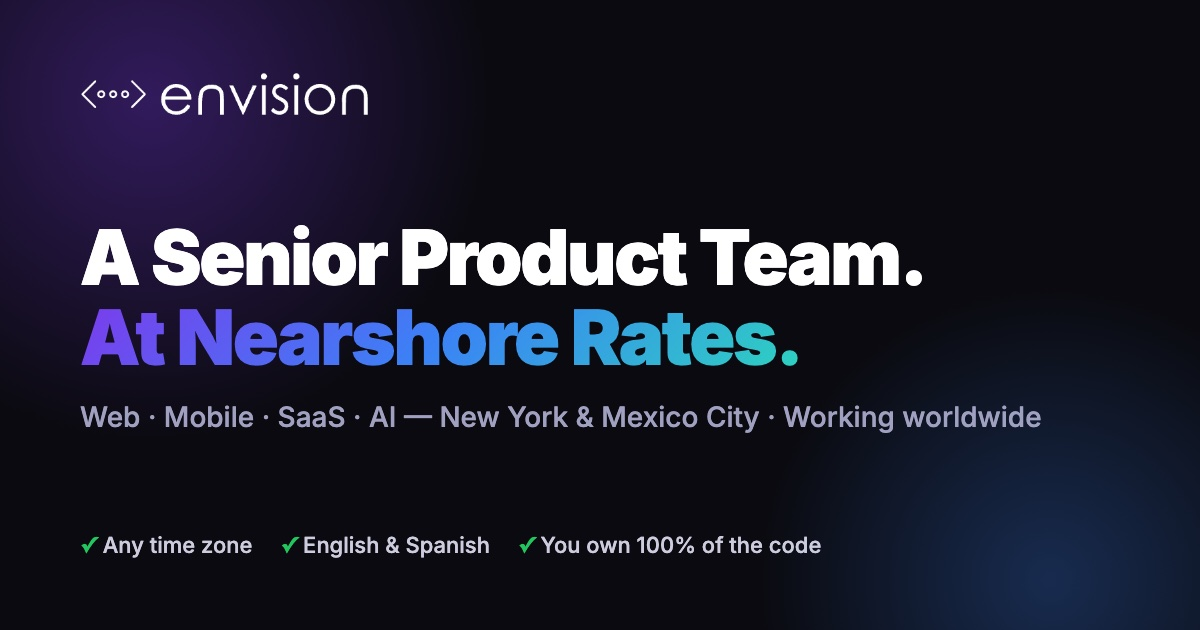
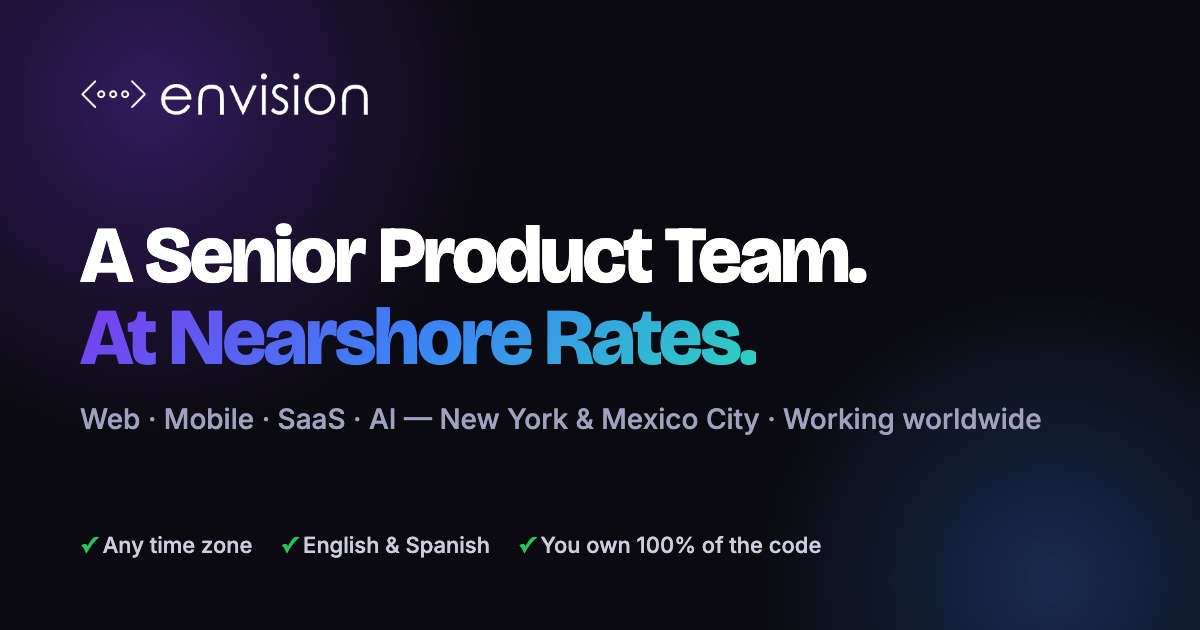
Use Bricolage Grotesque for headlines, keep Inter for body text
Also drops unused Inter weights (300, 900) and updates the social preview image to match.

Changed region(s): [[0.0617, 0.4825, 0.6783, 0.6032], [0.0617, 0.3619, 0.7708, 0.4524], [0.0617, 0.6333, 0.8633, 0.6937]]

diff --git a/es/index.html b/es/index.html
@@ -51,7 +51,7 @@
 
 <link rel="preconnect" href="https://fonts.googleapis.com">
 <link rel="preconnect" href="https://fonts.gstatic.com" crossorigin>
-<link href="https://fonts.googleapis.com/css2?family=Inter:wght@300;400;500;600;700;800;900&display=swap" rel="stylesheet">
+<link href="https://fonts.googleapis.com/css2?family=Bricolage+Grotesque:opsz,wght@12..96,700;12..96,800&family=Inter:wght@400;500;600;700;800&display=swap" rel="stylesheet">
 <style>
 /* ── VARIABLES ─────────────────────────────────────────────────────────── */
 :root {
@@ -78,6 +78,7 @@
   --radius:    14px;
   --radius-sm: 8px;
   --font:      'Inter', sans-serif;
+  --font-display: 'Bricolage Grotesque', 'Inter', sans-serif;
 }
 
 /* ── RESET ─────────────────────────────────────────────────────────────── */
@@ -109,6 +110,12 @@ body::before {
   opacity: 0.025;
   pointer-events: none;
   z-index: 9999;
+}
+
+/* Headlines use Bricolage Grotesque; body copy stays in Inter */
+.hero-title, .section-title, .stat-num, .case-title, .project-name,
+.service-title, .step-title, .team-name, .project-shot.placeholder span {
+  font-family: var(--font-display);
 }
 
 /* ── UTILITIES ──────────────────────────────────────────────────────────── */
@@ -300,7 +307,7 @@ nav.scrolled {
 }
 .hero-title {
   font-size: clamp(2.6rem, 6vw, 4.5rem);
-  font-weight: 900; line-height: 1.1;
+  font-weight: 800; line-height: 1.05;
   letter-spacing: -0.03em;
   margin-bottom: 24px;
 }
@@ -363,7 +370,7 @@ nav.scrolled {
   padding: 28px 32px; text-align: center;
 }
 .stat-num {
-  font-size: 2.25rem; font-weight: 900;
+  font-size: 2.25rem; font-weight: 800;
   letter-spacing: -0.03em; line-height: 1;
   background: linear-gradient(135deg, var(--grad1), var(--grad2));
   -webkit-background-clip: text; -webkit-text-fill-color: transparent;
@@ -800,7 +807,7 @@ footer {
   background: radial-gradient(circle at 30% 20%, color-mix(in srgb, var(--accent-text) 35%, transparent), transparent 60%), var(--card2);
 }
 .project-shot.placeholder span {
-  font-size: 2.2rem; font-weight: 900; letter-spacing: -0.03em;
+  font-size: 2.2rem; font-weight: 800; letter-spacing: -0.03em;
   color: var(--accent-text); opacity: 0.9;
 }
 .project-pill {

diff --git a/index.html b/index.html
@@ -50,7 +50,7 @@
 
 <link rel="preconnect" href="https://fonts.googleapis.com">
 <link rel="preconnect" href="https://fonts.gstatic.com" crossorigin>
-<link href="https://fonts.googleapis.com/css2?family=Inter:wght@300;400;500;600;700;800;900&display=swap" rel="stylesheet">
+<link href="https://fonts.googleapis.com/css2?family=Bricolage+Grotesque:opsz,wght@12..96,700;12..96,800&family=Inter:wght@400;500;600;700;800&display=swap" rel="stylesheet">
 <style>
 /* ── VARIABLES ─────────────────────────────────────────────────────────── */
 :root {
@@ -77,6 +77,7 @@
   --radius:    14px;
   --radius-sm: 8px;
   --font:      'Inter', sans-serif;
+  --font-display: 'Bricolage Grotesque', 'Inter', sans-serif;
 }
 
 /* ── RESET ─────────────────────────────────────────────────────────────── */
@@ -108,6 +109,12 @@ body::before {
   opacity: 0.025;
   pointer-events: none;
   z-index: 9999;
+}
+
+/* Headlines use Bricolage Grotesque; body copy stays in Inter */
+.hero-title, .section-title, .stat-num, .case-title, .project-name,
+.service-title, .step-title, .team-name, .project-shot.placeholder span {
+  font-family: var(--font-display);
 }
 
 /* ── UTILITIES ──────────────────────────────────────────────────────────── */
@@ -299,7 +306,7 @@ nav.scrolled {
 }
 .hero-title {
   font-size: clamp(2.6rem, 6vw, 4.5rem);
-  font-weight: 900; line-height: 1.1;
+  font-weight: 800; line-height: 1.05;
   letter-spacing: -0.03em;
   margin-bottom: 24px;
 }
@@ -362,7 +369,7 @@ nav.scrolled {
   padding: 28px 32px; text-align: center;
 }
 .stat-num {
-  font-size: 2.25rem; font-weight: 900;
+  font-size: 2.25rem; font-weight: 800;
   letter-spacing: -0.03em; line-height: 1;
   background: linear-gradient(135deg, var(--grad1), var(--grad2));
   -webkit-background-clip: text; -webkit-text-fill-color: transparent;
@@ -799,7 +806,7 @@ footer {
   background: radial-gradient(circle at 30% 20%, color-mix(in srgb, var(--accent-text) 35%, transparent), transparent 60%), var(--card2);
 }
 .project-shot.placeholder span {
-  font-size: 2.2rem; font-weight: 900; letter-spacing: -0.03em;
+  font-size: 2.2rem; font-weight: 800; letter-spacing: -0.03em;
   color: var(--accent-text); opacity: 0.9;
 }
 .project-pill {
